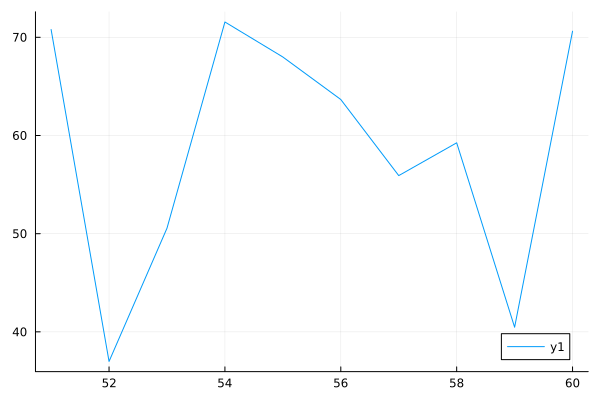
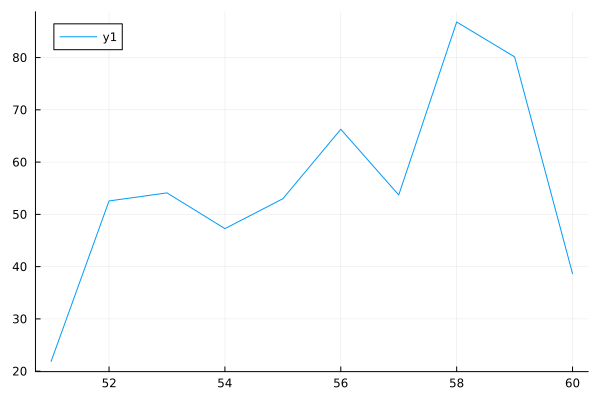
plot fix

diff --git a/01_intro.html b/01_intro.html
@@ -507,16 +507,16 @@ Ringo is Beatle #4</code></pre>
  Row │ age    happiness
      │ Int64  Float64
 ─────┼──────────────────
-   1 │    51    70.7901
-   2 │    52    36.9891
-   3 │    53    50.5548
-   4 │    54    71.5564
-   5 │    55    67.9897
-   6 │    56    63.6608
-   7 │    57    55.9138
-   8 │    58    59.2536
-   9 │    59    40.4711
-  10 │    60    70.6184</code></pre>
+   1 │    51    21.8624
+   2 │    52    52.5677
+   3 │    53    54.1105
+   4 │    54    47.2684
+   5 │    55    52.9924
+   6 │    56    66.2776
+   7 │    57    53.7095
+   8 │    58    86.8056
+   9 │    59    80.1328
+  10 │    60    38.6522</code></pre>
 </div>
 </div>
 </section>
@@ -558,16 +558,16 @@ Ringo is Beatle #4</code></pre>
  Row │ age    happiness
      │ Int64  Float64
 ─────┼──────────────────
-   1 │    51    70.7901
-   2 │    52    36.9891
-   3 │    53    50.5548
-   4 │    54    71.5564
-   5 │    55    67.9897
-   6 │    56    63.6608
-   7 │    57    55.9138
-   8 │    58    59.2536
-   9 │    59    40.4711
-  10 │    60    70.6184</code></pre>
+   1 │    51    21.8624
+   2 │    52    52.5677
+   3 │    53    54.1105
+   4 │    54    47.2684
+   5 │    55    52.9924
+   6 │    56    66.2776
+   7 │    57    53.7095
+   8 │    58    86.8056
+   9 │    59    80.1328
+  10 │    60    38.6522</code></pre>
 </div>
 </div>
 </section>
@@ -586,7 +586,7 @@ Ringo is Beatle #4</code></pre>
 <h2>Loading Data</h2>
 <div class="cell">
 <div class="sourceCode cell-code" id="cb73"><pre class="sourceCode numberSource julia number-lines code-with-copy"><code class="sourceCode julia"><span id="cb73-1"><a href=""></a><span class="im">using</span> <span class="bu">CSV</span>, <span class="bu">DataFrames</span></span>
-<span id="cb73-2"><a href=""></a>data <span class="op">=</span> CSV.<span class="fu">read</span>(<span class="st">"data/happy.tsv"</span>, DataFrames.DataFrame;</span>
+<span id="cb73-2"><a href=""></a>mydata <span class="op">=</span> CSV.<span class="fu">read</span>(<span class="st">"data/happy.tsv"</span>, DataFrames.DataFrame;</span>
 <span id="cb73-3"><a href=""></a><span class="co"># ensures column names are valid Julia symbols</span></span>
 <span id="cb73-4"><a href=""></a>normalizenames <span class="op">=</span> <span class="cn">true</span>,</span>
 <span id="cb73-5"><a href=""></a><span class="co"># expect comma-separated values</span></span>
@@ -632,16 +632,16 @@ Ringo is Beatle #4</code></pre>
  Row │ age    life_satisfaction
      │ Int64  Float64
 ─────┼──────────────────────────
-   1 │    51            70.7901
-   2 │    52            36.9891
-   3 │    53            50.5548
-   4 │    54            71.5564
-   5 │    55            67.9897
-   6 │    56            63.6608
-   7 │    57            55.9138
-   8 │    58            59.2536
-   9 │    59            40.4711
-  10 │    60            70.6184</code></pre>
+   1 │    51            21.8624
+   2 │    52            52.5677
+   3 │    53            54.1105
+   4 │    54            47.2684
+   5 │    55            52.9924
+   6 │    56            66.2776
+   7 │    57            53.7095
+   8 │    58            86.8056
+   9 │    59            80.1328
+  10 │    60            38.6522</code></pre>
 </div>
 </div>
 </section>
@@ -657,17 +657,32 @@ Ringo is Beatle #4</code></pre>
 <h2>More Plotting</h2>
 <p>Add to the plot using the modification operator</p>
 <div class="cell">
-<div class="sourceCode cell-code" id="cb78"><pre class="sourceCode numberSource julia number-lines code-with-copy"><code class="sourceCode julia"><span id="cb78-1"><a href=""></a><span class="co">#plot!(df.age, df.age)</span></span></code><button title="Copy to Clipboard" class="code-copy-button"><i class="bi"></i></button></pre></div>
+<div class="sourceCode cell-code" id="cb78"><pre class="sourceCode numberSource julia number-lines code-with-copy"><code class="sourceCode julia"><span id="cb78-1"><a href=""></a><span class="fu">plot!</span>(df.age, df.age)</span></code><button title="Copy to Clipboard" class="code-copy-button"><i class="bi"></i></button></pre></div>
+
 </div>
-</section>
+<img data-src="01_intro_files/figure-revealjs/plotmore-J1.png" width="300" class="r-stretch"></section>
 <section id="symbolic-computation" class="slide level2">
 <h2>Symbolic Computation</h2>
 <div class="cell">
 <div class="sourceCode cell-code" id="cb79"><pre class="sourceCode numberSource julia number-lines code-with-copy"><code class="sourceCode julia"><span id="cb79-1"><a href=""></a><span class="im">using</span> <span class="bu">Symbolics</span>, <span class="bu">Nemo</span></span>
 <span id="cb79-2"><a href=""></a></span>
-<span id="cb79-3"><a href=""></a><span class="pp">@variables</span> x a b</span>
-<span id="cb79-4"><a href=""></a><span class="fu">expand</span>( (x <span class="op">+</span> a) <span class="op">*</span> (x <span class="op">+</span> b) )</span>
-<span id="cb79-5"><a href=""></a>symbolic_solve ( <span class="fl">4</span><span class="op">*</span>x<span class="op">^</span><span class="fl">2</span> <span class="op">-</span> <span class="fl">2</span><span class="op">*</span>x <span class="op">-</span> <span class="fl">1</span>)</span></code><button title="Copy to Clipboard" class="code-copy-button"><i class="bi"></i></button></pre></div>
+<span id="cb79-3"><a href=""></a><span class="pp">@variables</span> x y z</span></code><button title="Copy to Clipboard" class="code-copy-button"><i class="bi"></i></button></pre></div>
+<div class="cell-output cell-output-stdout">
+<pre><code>3-element Vector{Num}:
+ x
+ y
+ z</code></pre>
+</div>
+<div class="sourceCode cell-code" id="cb81"><pre class="sourceCode numberSource julia number-lines code-with-copy"><code class="sourceCode julia"><span id="cb81-1"><a href=""></a><span class="fu">expand</span>( (x <span class="op">+</span> y) <span class="op">*</span> (x <span class="op">+</span> z) )</span></code><button title="Copy to Clipboard" class="code-copy-button"><i class="bi"></i></button></pre></div>
+<div class="cell-output cell-output-stdout">
+<pre><code>x^2 + x*y + x*z + y*z</code></pre>
+</div>
+<div class="sourceCode cell-code" id="cb83"><pre class="sourceCode numberSource julia number-lines code-with-copy"><code class="sourceCode julia"><span id="cb83-1"><a href=""></a><span class="fu">symbolic_solve</span>( <span class="fl">4</span><span class="op">*</span>x<span class="op">^</span><span class="fl">2</span> <span class="op">-</span> <span class="fl">2</span><span class="op">*</span>x <span class="op">-</span> <span class="fl">1</span>)</span></code><button title="Copy to Clipboard" class="code-copy-button"><i class="bi"></i></button></pre></div>
+<div class="cell-output cell-output-stdout">
+<pre><code>2-element Vector{SymbolicUtils.BasicSymbolic{Real}}:
+ (1//4) + (1//4)*√(5)
+ (1//4) - (1//4)*√(5)</code></pre>
+</div>
 </div>
 </section></section>
 <section>
@@ -680,12 +695,12 @@ Ringo is Beatle #4</code></pre>
 <p>Find Julia here: <a href="https://julialang.org/" class="uri">https://julialang.org/</a></p>
 <p>Step 0: Hello World</p>
 <div class="cell">
-<div class="sourceCode cell-code" id="cb80"><pre class="sourceCode numberSource julia number-lines code-with-copy"><code class="sourceCode julia"><span id="cb80-1"><a href=""></a><span class="fu">print</span>(<span class="st">"Hello World!"</span>)</span></code><button title="Copy to Clipboard" class="code-copy-button"><i class="bi"></i></button></pre></div>
+<div class="sourceCode cell-code" id="cb85"><pre class="sourceCode numberSource julia number-lines code-with-copy"><code class="sourceCode julia"><span id="cb85-1"><a href=""></a><span class="fu">print</span>(<span class="st">"Hello World!"</span>)</span></code><button title="Copy to Clipboard" class="code-copy-button"><i class="bi"></i></button></pre></div>
 </div>
 <p>Step 00: Install some packages</p>
 <div class="cell">
-<div class="sourceCode cell-code" id="cb81"><pre class="sourceCode numberSource julia number-lines code-with-copy"><code class="sourceCode julia"><span id="cb81-1"><a href=""></a><span class="im">using</span> <span class="bu">Pkg</span></span>
-<span id="cb81-2"><a href=""></a><span class="bu">Pkg</span>.<span class="fu">add</span>([<span class="st">"StructuralEquationModels"</span>, <span class="st">"CSV"</span>, <span class="st">"Distributions"</span>, <span class="st">"DataFrames"</span>, <span class="st">"StableRNGs"</span>])</span></code><button title="Copy to Clipboard" class="code-copy-button"><i class="bi"></i></button></pre></div>
+<div class="sourceCode cell-code" id="cb86"><pre class="sourceCode numberSource julia number-lines code-with-copy"><code class="sourceCode julia"><span id="cb86-1"><a href=""></a><span class="im">using</span> <span class="bu">Pkg</span></span>
+<span id="cb86-2"><a href=""></a><span class="bu">Pkg</span>.<span class="fu">add</span>([<span class="st">"StructuralEquationModels"</span>, <span class="st">"CSV"</span>, <span class="st">"Distributions"</span>, <span class="st">"DataFrames"</span>, <span class="st">"StableRNGs"</span>])</span></code><button title="Copy to Clipboard" class="code-copy-button"><i class="bi"></i></button></pre></div>
 </div>
 </section>
 <section id="exercise" class="slide level2">
@@ -701,27 +716,27 @@ Ringo is Beatle #4</code></pre>
 <section id="solution" class="slide level2">
 <h2>Solution</h2>
 <div class="cell">
-<div class="sourceCode cell-code" id="cb82"><pre class="sourceCode numberSource julia number-lines code-with-copy"><code class="sourceCode julia"><span id="cb82-1"><a href=""></a></span>
-<span id="cb82-2"><a href=""></a><span class="im">using</span> <span class="bu">CSV</span>, <span class="bu">DataFrames</span></span>
-<span id="cb82-3"><a href=""></a>data <span class="op">=</span> CSV.<span class="fu">read</span>(<span class="st">"data/exercise_sheet1.csv"</span>, DataFrames.DataFrame;</span>
-<span id="cb82-4"><a href=""></a><span class="co"># ensures column names are valid Julia symbols</span></span>
-<span id="cb82-5"><a href=""></a>normalizenames <span class="op">=</span> <span class="cn">true</span>,</span>
-<span id="cb82-6"><a href=""></a><span class="co"># expect comma-separated values</span></span>
-<span id="cb82-7"><a href=""></a>delim <span class="op">=</span> <span class="ch">','</span>,</span>
-<span id="cb82-8"><a href=""></a><span class="co"># handle missing data</span></span>
-<span id="cb82-9"><a href=""></a>missingstring <span class="op">=</span> [<span class="st">""</span>, <span class="st">"NA"</span>, <span class="st">"NaN"</span>],</span>
-<span id="cb82-10"><a href=""></a><span class="co"># ignore duplicate column delimiters</span></span>
-<span id="cb82-11"><a href=""></a>ignorerepeated <span class="op">=</span> <span class="cn">true</span></span>
-<span id="cb82-12"><a href=""></a>)</span></code><button title="Copy to Clipboard" class="code-copy-button"><i class="bi"></i></button></pre></div>
+<div class="sourceCode cell-code" id="cb87"><pre class="sourceCode numberSource julia number-lines code-with-copy"><code class="sourceCode julia"><span id="cb87-1"><a href=""></a></span>
+<span id="cb87-2"><a href=""></a><span class="im">using</span> <span class="bu">CSV</span>, <span class="bu">DataFrames</span></span>
+<span id="cb87-3"><a href=""></a>data <span class="op">=</span> CSV.<span class="fu">read</span>(<span class="st">"data/exercise_sheet1.csv"</span>, DataFrames.DataFrame;</span>
+<span id="cb87-4"><a href=""></a><span class="co"># ensures column names are valid Julia symbols</span></span>
+<span id="cb87-5"><a href=""></a>normalizenames <span class="op">=</span> <span class="cn">true</span>,</span>
+<span id="cb87-6"><a href=""></a><span class="co"># expect comma-separated values</span></span>
+<span id="cb87-7"><a href=""></a>delim <span class="op">=</span> <span class="ch">','</span>,</span>
+<span id="cb87-8"><a href=""></a><span class="co"># handle missing data</span></span>
+<span id="cb87-9"><a href=""></a>missingstring <span class="op">=</span> [<span class="st">""</span>, <span class="st">"NA"</span>, <span class="st">"NaN"</span>],</span>
+<span id="cb87-10"><a href=""></a><span class="co"># ignore duplicate column delimiters</span></span>
+<span id="cb87-11"><a href=""></a>ignorerepeated <span class="op">=</span> <span class="cn">true</span></span>
+<span id="cb87-12"><a href=""></a>)</span></code><button title="Copy to Clipboard" class="code-copy-button"><i class="bi"></i></button></pre></div>
 </div>
 </section>
 <section id="solution-contd" class="slide level2">
 <h2>Solution Cont’d</h2>
 <div class="cell">
-<div class="sourceCode cell-code" id="cb83"><pre class="sourceCode numberSource julia number-lines code-with-copy"><code class="sourceCode julia"><span id="cb83-1"><a href=""></a><span class="fu">print</span>(data)</span>
-<span id="cb83-2"><a href=""></a><span class="fu">mean</span>(data.age)</span>
-<span id="cb83-3"><a href=""></a><span class="fu">mean</span>.(data) <span class="co">#use broadcast operator</span></span>
-<span id="cb83-4"><a href=""></a><span class="fu">plot</span>(data[<span class="op">:</span>,<span class="fl">1</span>], data[<span class="op">:</span>,<span class="fl">2</span>])</span></code><button title="Copy to Clipboard" class="code-copy-button"><i class="bi"></i></button></pre></div>
+<div class="sourceCode cell-code" id="cb88"><pre class="sourceCode numberSource julia number-lines code-with-copy"><code class="sourceCode julia"><span id="cb88-1"><a href=""></a><span class="fu">print</span>(data)</span>
+<span id="cb88-2"><a href=""></a><span class="fu">mean</span>(data.age)</span>
+<span id="cb88-3"><a href=""></a><span class="fu">mean</span>.(data) <span class="co">#use broadcast operator</span></span>
+<span id="cb88-4"><a href=""></a><span class="fu">plot</span>(data[<span class="op">:</span>,<span class="fl">1</span>], data[<span class="op">:</span>,<span class="fl">2</span>])</span></code><button title="Copy to Clipboard" class="code-copy-button"><i class="bi"></i></button></pre></div>
 </div>
 </section></section>
 <section id="move-on-to-part-ii-of-the-workshop" class="title-slide slide level1 center">
